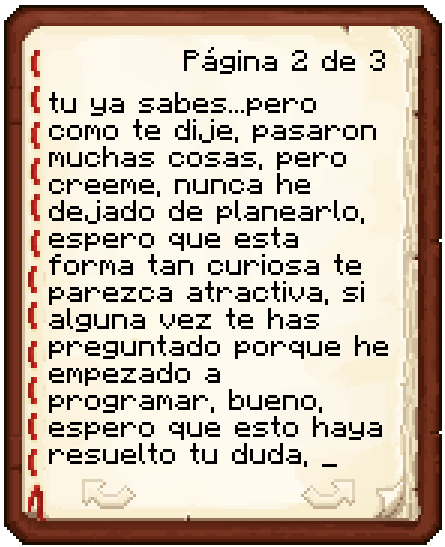
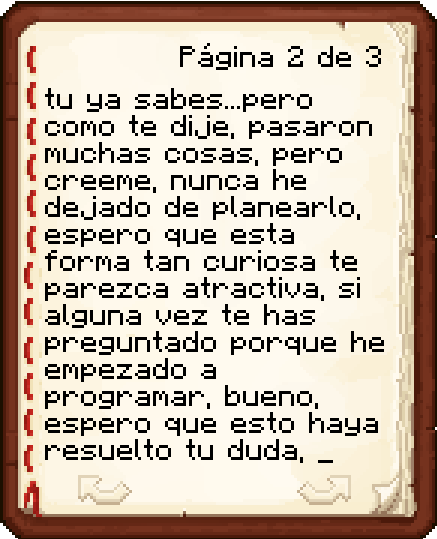
version 3.2

diff --git a/rincon.js b/rincon.js
@@ -1,11 +1,11 @@
-// Mejora de voltear: mantiene z-index original por página y añade soporte táctil/teclado
-let _topZ = 1000; // contador para traer páginas al frente temporalmente
+// --- LÓGICA DEL LIBRO 3D ---
+let _topZ = 1000; 
 
 function voltear(numeroPapel) {
     const papel = document.getElementById('p' + numeroPapel);
     if (!papel) return;
 
-    // asegurar origZ
+    // Asegurar el z-index original de la hoja
     if (!('origZ' in papel.dataset)) {
         const z = getComputedStyle(papel).zIndex;
         papel.dataset.origZ = (z && z !== 'auto') ? z : 0;
@@ -14,39 +14,36 @@ function voltear(numeroPapel) {
 
     if (!papel.classList.contains('volteado')) {
         papel.classList.add('volteado');
-        // Traer la hoja al frente TEMPORALMENTE para que el giro esté encima
+        // Traer la hoja al frente para que gire por encima de las demás
         _topZ += 1;
         papel.style.zIndex = _topZ;
     } else {
         papel.classList.remove('volteado');
-        // Restaurar z-index al original tras la animación
+        // Esperamos a que termine la animación para devolverle su orden original
         setTimeout(() => { papel.style.zIndex = papel.dataset.origZ || ''; }, 800);
     }
 
-    // NUEVO: Llamamos a la función que centra el libro cada vez que se toca una hoja
+    // Calculamos si el libro debe moverse
     centrarLibro();
 }
 
-// --- NUEVA FUNCION: Calcula la posición del libro ---
 function centrarLibro() {
     const libro = document.querySelector('.libro');
     const totalHojas = document.querySelectorAll('.papel').length;
     const hojasVolteadas = document.querySelectorAll('.papel.volteado').length;
     
     if (hojasVolteadas === 0) {
-        // Libro cerrado (Inicio): Se queda en su lugar
+        // Libro cerrado (Portada principal) - Pegado a la izquierda
         libro.style.setProperty('--desplazamiento', '0px');
     } else if (hojasVolteadas === totalHojas) {
-        // Libro cerrado (Final): Como pasaste todas las hojas, el libro se mueve a la derecha
+        // Libro cerrado (Tapa final) - Se desliza hacia la derecha
         libro.style.setProperty('--desplazamiento', '300px');
     } else {
-        // Libro abierto: Se centra perfectamente en la pantalla (150px es la mitad de 300px)
+        // Libro abierto (Páginas internas) - Se centra en la pantalla
         libro.style.setProperty('--desplazamiento', '150px');
     }
 }
 
-
-// Soporte táctil y accesibilidad: asignar tabindex y listeners
 document.addEventListener('DOMContentLoaded', () => {
     const pages = Array.from(document.querySelectorAll('.papel'));
     const total = pages.length;
@@ -54,33 +51,18 @@ document.addEventListener('DOMContentLoaded', () => {
     pages.forEach((p, idx) => {
         p.setAttribute('tabindex', '0');
 
-        // Determinar z-index estable basado en el orden DOM (primer elemento arriba)
+        // Determinar el orden de las páginas (la primera arriba, la última abajo)
         const zIndex = total - idx;
         p.dataset.origZ = zIndex;
         p.style.zIndex = zIndex;
 
-        // FRONT: si el usuario ya puso una imagen, mantenla. Si no, asignar una aleatoria reproducible
-        const frenteImg = p.querySelector('.frente img');
-        if (frenteImg && (!frenteImg.src || frenteImg.src.trim() === '')) {
-            frenteImg.src = `https://picsum.photos/seed/front-${idx}/400/500`;
-        }
-
-        // BACK: preferir src que ponga el usuario; si no hay, asignar picsum con seed por índice
-        const dorsoImg = p.querySelector('.dorso img');
-        const backSrc = dorsoImg && dorsoImg.getAttribute('src') && dorsoImg.src.indexOf('data:') !== 0
-            ? dorsoImg.src
-            : `https://picsum.photos/seed/back-${idx}/400/500`;
-        p.dataset.backSrc = backSrc;
-        if (dorsoImg) dorsoImg.src = backSrc;
-
-        // Listeners
+        // Listeners para tocar, hacer clic o usar teclado
         p.addEventListener('touchstart', function (e) {
             e.preventDefault();
             voltear(this.id.replace('p',''));
         }, { passive: false });
 
         p.addEventListener('click', function (e) {
-            // prevenir que clicks en imágenes aniden otros eventos
             voltear(this.id.replace('p',''));
         });
 
@@ -93,5 +75,4 @@ document.addEventListener('DOMContentLoaded', () => {
     });
 });
 
-// También exponemos la función por si el HTML la llama directamente
 window.voltear = voltear;

diff --git a/rincon.html b/rincon.html
@@ -3,7 +3,6 @@
 <head>
     <meta charset="UTF-8">
     <meta name="viewport" content="width=device-width, initial-scale=1.0">
-    <meta name="viewport" content="width=device-width, initial-scale=1.0">
     <title>Nuestro Rincón ❤️</title>
     <link rel="stylesheet" href="rincon.css">
 </head>
@@ -19,41 +18,46 @@
                     <img src="https://picsum.photos/id/1062/400/500" alt="Portada">
                 </div>
                 <div class="dorso">
-                    <div class="textura-interior"></div>
+                    <img src="https://picsum.photos/seed/interior-tapa/400/500" alt="Interior Portada">
                 </div>
             </div>
 
             <div class="papel" id="p2">
-                <div class="frente"><img src="https://picsum.photos/seed/h1f/400/500" alt="F2"></div>
-                <div class="dorso"><img src="https://picsum.photos/seed/h1d/400/500" alt="F3"></div>
+                <div class="frente"><img src="img/hoja1.png" alt="Foto 1"></div>
+                <div class="dorso"><img src="https://picsum.photos/seed/h1d/400/500" alt="Foto 2"></div>
             </div>
 
             <div class="papel" id="p3">
-                <div class="frente"><img src="https://picsum.photos/seed/h2f/400/500" alt="F4"></div>
-                <div class="dorso"><img src="https://picsum.photos/seed/h2d/400/500" alt="F5"></div>
+                <div class="frente"><img src="https://picsum.photos/seed/h2f/400/500" alt="Foto 3"></div>
+                <div class="dorso"><img src="https://picsum.photos/seed/h2d/400/500" alt="Foto 4"></div>
             </div>
 
             <div class="papel" id="p4">
-                <div class="frente"><img src="https://picsum.photos/seed/h3f/400/500" alt="F6"></div>
-                <div class="dorso"><img src="https://picsum.photos/seed/h3d/400/500" alt="F7"></div>
+                <div class="frente"><img src="https://picsum.photos/seed/h3f/400/500" alt="Foto 5"></div>
+                <div class="dorso"><img src="https://picsum.photos/seed/h3d/400/500" alt="Foto 6"></div>
             </div>
 
             <div class="papel" id="p5">
-                <div class="frente"><img src="https://picsum.photos/seed/h4f/400/500" alt="F8"></div>
-                <div class="dorso"><img src="https://picsum.photos/seed/h4d/400/500" alt="F9"></div>
+                <div class="frente"><img src="https://picsum.photos/seed/h4f/400/500" alt="Foto 7"></div>
+                <div class="dorso"><img src="https://picsum.photos/seed/h4d/400/500" alt="Foto 8"></div>
             </div>
 
             <div class="papel" id="p6">
-                <div class="frente"><img src="https://picsum.photos/seed/h5f/400/500" alt="F10"></div>
-                <div class="dorso"><img src="https://picsum.photos/seed/h5d/400/500" alt="F11"></div>
+                <div class="frente"><img src="https://picsum.photos/seed/h5f/400/500" alt="Foto 9"></div>
+                <div class="dorso"><img src="https://picsum.photos/seed/h5d/400/500" alt="Foto 10"></div>
+            </div>
+            
+            <div class="papel" id="p7">
+                <div class="frente"><img src="https://picsum.photos/seed/h5f/400/500" alt="Foto 9"></div>
+                <div class="dorso"><img src="https://picsum.photos/seed/h5d/400/500" alt="Foto 10"></div>
             </div>
 
-            <div class="papel tapa" id="p7">
+            <div class="papel tapa" id="p8">
                 <div class="frente">
-                    <div class="textura-interior"></div>
+                    <img src="https://picsum.photos/seed/imagen-fin/400/500" alt="Imagen Fin">
                 </div>
                 <div class="dorso">
-                    <img src="https://picsum.photos/id/1010/400/500" alt="Contraportada">
+                    <img src="https://picsum.photos/id/1010/400/500" alt="Contraportada Exterior">
                 </div>
             </div>
 

diff --git a/arbol.css b/arbol.css
@@ -162,3 +162,28 @@ body {
     .arbol-centrado .panel-izquierdo { display: none; }
     .contenido-texto { width: 100%; padding: 20px; }
 }
+
+/* =======================================================
+   MUNDO MÓVIL (Corrección del botón y el texto)
+   ======================================================= */
+@media (max-width: 768px) {
+    /* 1. Hacemos el botón un poco más discreto en el celular */
+    #btn-volver-menu {
+        top: 15px;
+        left: 15px;
+        padding: 6px 12px;
+        font-size: 0.8rem;
+    }
+
+    /* 2. Empujamos el contenedor del texto hacia abajo. 
+       NOTA: Si tu tarjeta tiene otra clase (como .carta o .contenedor), 
+       cámbiala aquí abajo */
+    .tarjeta, .contenedor, .carta {
+        padding-top: 60px !important; /* Este es el margen mágico que salva el texto */
+    }
+    
+    /* Si el texto está en un contenedor específico, también puedes usar esto: */
+    .texto-arbol { 
+        margin-top: 40px;
+    }
+}

diff --git a/rincon.css b/rincon.css
@@ -43,23 +43,20 @@ body {
 }
 
 .libro {
-    width: 300px;
-    height: 400px;
     position: relative;
+    width: 400px; /* Asumo que es 400px por las fotos que usamos */
+    height: 500px;
     transform-style: preserve-3d;
     
-    /* Creamos una variable para mover el libro de lado a lado */
-    --desplazamiento: 0px;
-    
-    /* Aplicamos el desplazamiento junto con la inclinación kawaii que ya teníamos */
-    transform: translateX(var(--desplazamiento)) rotateX(15deg) rotateY(-5deg); 
-    
-    box-shadow: 15px 25px 40px rgba(255, 105, 135, 0.15);
-    border-radius: 10px 20px 20px 10px;
-    
-    /* Esta transición hace que el libro se deslice suavemente al centrarse */
+    /* 1. ESTO HACE QUE EL LIBRO SE MUEVA HACIA LOS LADOS SUAVEMENTE */
+    transform: translateX(var(--desplazamiento, 0px));
     transition: transform 0.8s cubic-bezier(0.25, 0.8, 0.25, 1);
+    
+    /* 2. EL EXORCISMO: Borra cualquier fondo o sombra que esté en este contenedor vacío */
+    background: transparent !important;
+    box-shadow: none !important;
 }
+
 
 /* --- LAS HOJAS --- */
 .papel {
@@ -70,7 +67,7 @@ body {
     left: 0;
     transform-origin: left center; /* El lomo del libro */
     /* Aquí está la curva de movimiento súper suave */
-    transition: transform 0.8s cubic-bezier(0.25, 0.8, 0.25, 1);
+    transition: transform 0.8s cubic-bezier(0, 0, 0, 0.15);
     transform-style: preserve-3d;
     cursor: pointer;
 }

diff --git a/index.html b/index.html
@@ -7,7 +7,7 @@
     
     <link href="https://fonts.googleapis.com/css2?family=Nunito:wght@400;600;800&display=swap" rel="stylesheet">
     
-    <link rel="stylesheet" href="estilos.css?v=3.1.3">  
+    <link rel="stylesheet" href="estilos.css?v=3.2">  
     <link rel="manifest" href="manifest.json">
 </head>
 <body>
@@ -63,7 +63,7 @@
         <div class="modal-contenido">
             <span class="cerrar-modal" onclick="cerrarModal('modal-password')">&times;</span>
             <h3 style="color: #d6336c;">Código Secreto 🔐</h3>
-            <p style="color: #666; font-size: 14px;">Ingresa la clave maestra que descubriste en el código QR:</p>
+            <p style="color: #666; font-size: 14px;">Ingresar contraseña:</p>
             
             <input type="password" id="input-clave" placeholder="****">
             <button class="btn-verificar" onclick="verificarClave()">Desbloquear</button>
@@ -87,7 +87,7 @@
     <script src="candado.js"></script>
 
 
-    
-    <div class="version-app">v3.1.3</div>
+
+    <div class="version-app">v3.2</div>
 </body>
 </html>

diff --git a/calculadora.css b/calculadora.css
@@ -1,5 +1,5 @@
 body {
-    background: #0f3f88;
+    background: #1b3d70fd;
     font-family: 'Segoe UI', Tahoma, Geneva, Verdana, sans-serif;
     color: #333;
     display: flex;
@@ -23,7 +23,7 @@ body {
 
 .contenedor-principal {
     background: white;
-    max-width: 500px;
+    max-width: 800px;
     width: 100%;
     padding: 30px;
     border-radius: 15px;
@@ -31,7 +31,7 @@ body {
     margin-top: 50px;
 }
 
-h1 { margin-top: 0; color: #2c3e50; }
+h1 { margin-top: 0; color: #0080ff; }
 .subtitulo { color: #7f8c8d; font-size: 0.9rem; margin-bottom: 25px; }
 
 /* Estilos de las secciones */

diff --git a/arbol.js b/arbol.js
@@ -1,6 +1,6 @@
 // --- CONFIGURACIÓN ---
 const FECHA_INICIO = new Date("2025-08-26T19:18:00"); 
-const CARTA = `Mi querida Julietita...\nSi pudiera elegir un lugar seguro en este inmenso universo, sin duda sería a tu lado.\nCada día que pasa me doy cuenta de lo afortunado que soy.\nNo importa cuántas herramientas programe, mi mejor proyecto siempre será nuestro futuro juntos.`;
+const CARTA = `Mi querida Julietita...\nSiempre me has dicho que eres alguien que cree profundamente en el destino. \nAquel día quizás fué una de esos momentos, y aunque nos seguiamos conociendo, existe un día que lo cambió todo, es el día que supe que eras la persona que quería a mi lado. <br> \u00A0\u00A0\u00A0\u00A0\u00A0\u00A0\u00A0\u00A0\u00A0\u00A0\u00A0\u00A0\u00A0\u00A0\u00A0\u00A0\u00A0\u00A0\u00A0\u00A0\u00A0\u00A0\u00A0\u00A0\u00A0\u00A0 — Te amo!!!`;
 
 // --- 1. COREOGRAFÍA Y ANIMACIONES ---
 window.onload = () => {

diff --git a/sw.js b/sw.js
@@ -1,4 +1,4 @@
-const CACHE_NAME = 'pomodoro-amor-v4.1.3'; // cambiar -"vn" por cada actualización que haga
+const CACHE_NAME = 'pomodoro-amor-v4.2'; // cambiar -"vn" por cada actualización que haga
 const urlsToCache = [
   './',
   './index.html',